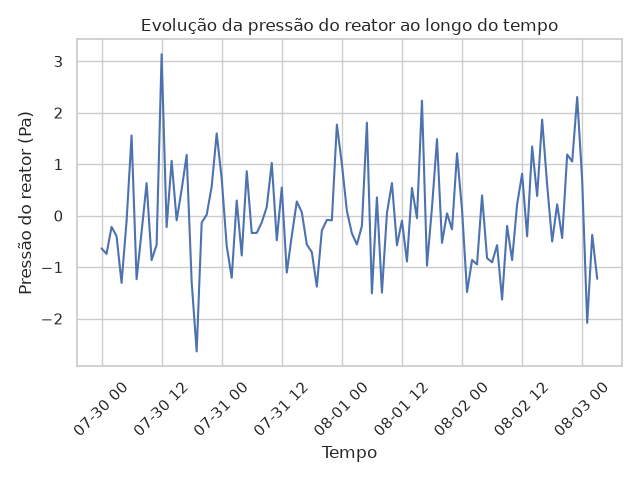
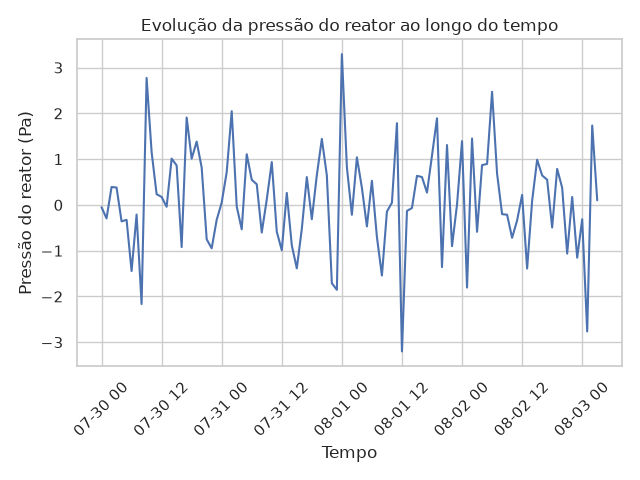
Implement problems 1-3: histogram, stats table, pressure plot; fill NaNs

diff --git a/src/main.py b/src/main.py
@@ -5,11 +5,91 @@ Prova Iniciação à Computação 2026.1
 # 1.
 
 print("Solucionando o problema 1...")
+import pandas as pd
+import seaborn as sns
 
-# 2.
+df = pd.read_csv(
+    "/workspaces/prova-2026-1/data/process.csv",
+    sep=",",
+    parse_dates=["timestamp"],
+    na_values=["", "NA", "NaN"],
+    low_memory=False,
+)
+print(df.head())
+# Preenchimento de NaN: numéricos -> mediana; categóricos -> moda
+num_cols = df.select_dtypes(include=["number"]).columns
+cat_cols = df.select_dtypes(include=["object"]).columns
 
-print("Solucionando o problema 2...")
+# Preencher numéricos com mediana
+df[num_cols] = df[num_cols].fillna(df[num_cols].median())
 
-# 3.
+# Preencher categóricos com moda (se existir), senão string vazia
+for c in cat_cols:
+    try:
+        mode = df[c].mode()
+        if not mode.empty:
+            df[c].fillna(mode.iloc[0], inplace=True)
+        else:
+            df[c].fillna("", inplace=True)
+    except Exception:
+        df[c].fillna("", inplace=True)
 
-print("Solucionando o problema 3...")
+print('\nApós preenchimento:')
+print(df.head())
+print('\nMissing por coluna (depois):')
+print(df.isna().sum().to_string())
+import os
+import matplotlib.pyplot as plt
+
+# garantir pasta de saída
+out_dir = os.path.join("images", "results")
+os.makedirs(out_dir, exist_ok=True)
+
+# 1) Histograma da temperatura do reator para operating_regime == 'A'
+print('\nSolucionando o problema 1... (histograma)')
+df_A = df[df['operating_regime'] == 'A']
+plt.figure(figsize=(8, 5))
+sns.histplot(df_A['reactor_temp'].dropna(), bins=30, kde=False, color='C0')
+plt.title('Histograma da temperatura do reator (condição A)')
+plt.xlabel('Temperatura do reator (°C)')
+plt.ylabel('Frequência')
+hist_path = os.path.join(out_dir, 'hist_reactor_temp_A.png')
+plt.tight_layout()
+plt.savefig(hist_path)
+plt.close()
+print(f'Histograma salvo em: {hist_path}')
+
+# 2) Média e desvio padrão para vibration_rms, motor_current e power_consumption_kw
+print('\nSolucionando o problema 2... (média e desvio padrão)')
+vars2 = ['vibration_rms', 'motor_current', 'power_consumption_kw']
+stats = []
+for v in vars2:
+    mu = df[v].mean()
+    sigma = df[v].std()
+    stats.append({'variable': v, 'mu': mu, 'sigma': sigma})
+stats_df = pd.DataFrame(stats)
+stats_csv = os.path.join(out_dir, 'problem2_stats.csv')
+stats_df.to_csv(stats_csv, index=False)
+print('Tabela de média (μ) e desvio padrão (σ):')
+print(stats_df.to_string(index=False))
+print(f'Tabela salva em: {stats_csv}')
+
+# 3) Evolução da pressão do reator entre 2024-02-16 08:00:00 e 2024-02-16 09:00:00
+print('\nSolucionando o problema 3... (série temporal)')
+start = pd.to_datetime('2024-02-16 08:00:00')
+end = pd.to_datetime('2024-02-16 09:00:00')
+mask = (df['timestamp'] >= start) & (df['timestamp'] <= end)
+df_window = df.loc[mask].sort_values('timestamp')
+plt.figure(figsize=(10, 4))
+plt.plot(df_window['timestamp'], df_window['reactor_pressure'], marker='o', linestyle='-')
+plt.title('Evolução da pressão do reator (2024-02-16 08:00 - 09:00)')
+plt.xlabel('Timestamp')
+plt.ylabel('Pressão do reator')
+plt.xticks(rotation=45)
+plt.tight_layout()
+pressure_path = os.path.join(out_dir, 'pressure_2024-02-16_08-09.png')
+plt.savefig(pressure_path)
+plt.close()
+print(f'Gráfico de pressão salvo em: {pressure_path}')
+
+print('\nTodos os itens (1,2,3) foram processados e os arquivos salvos em images/results/.')
